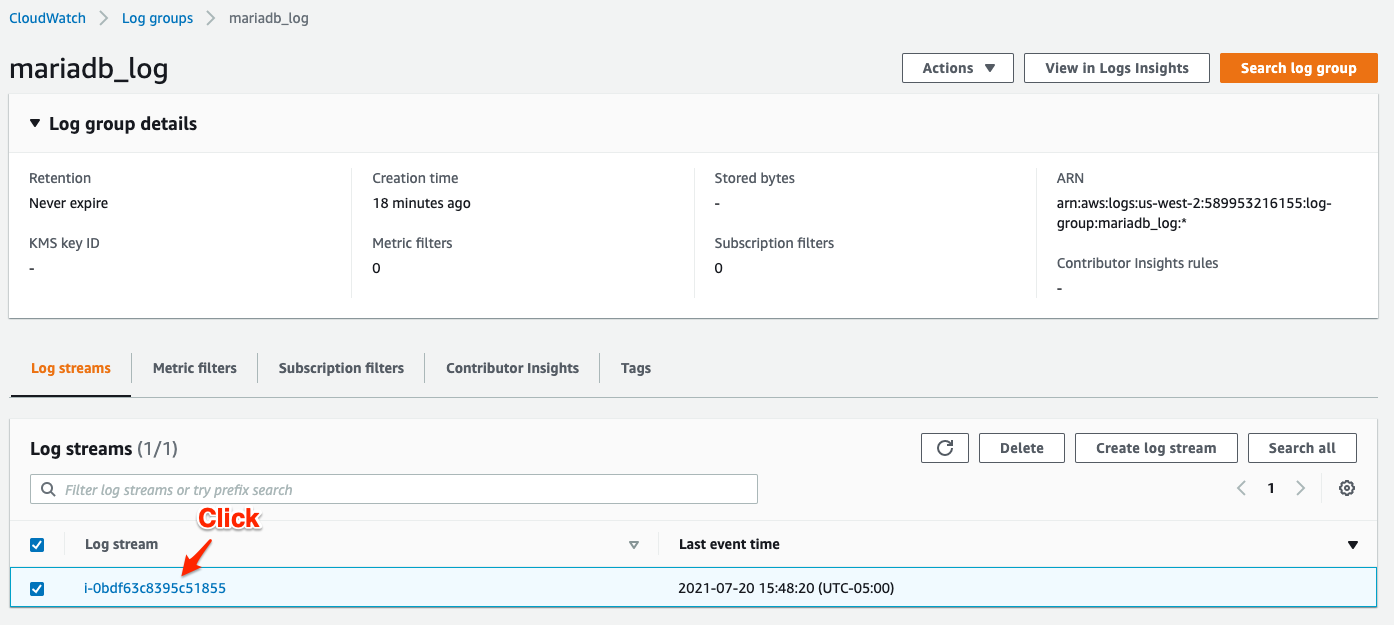
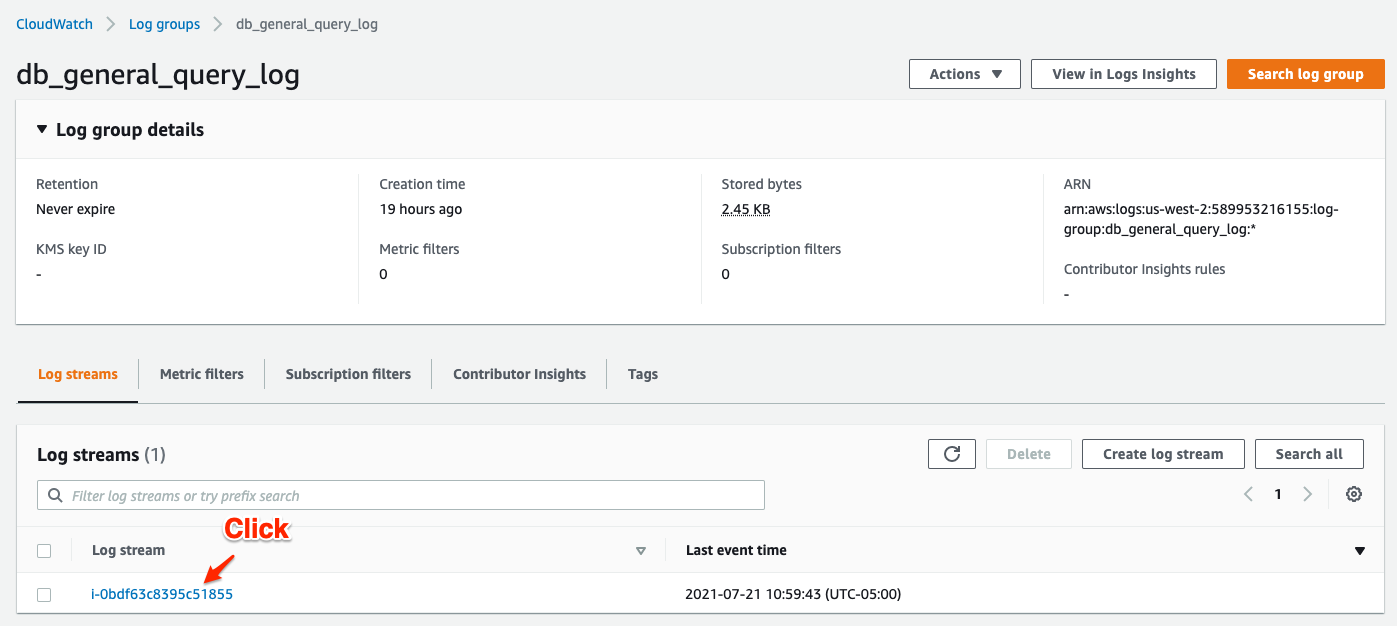
update

diff --git a/content/work3/task-5.md b/content/work3/task-5.md
@@ -34,7 +34,7 @@ aws iam attach-role-policy --role-name wa-lab-ssm-ec2-role --policy-arn arn:aws:
 
 <img src="../images/ssm2.png" alt="drawing" width="800"/> 
 
-7. In the **Command parameters** section, paste commands below. Note that we are using Secrets Manager (created at lab deployment) to pull the RDS Database masteruser password and Parameter Store (also precreated at lab launch) to pull the RDS instance endpoint.
+5. In the **Command parameters** section, paste commands below. Note that we are using Secrets Manager (created at lab deployment) to pull the RDS Database masteruser password and Parameter Store (also precreated at lab launch) to pull the RDS instance endpoint.
 
 ```sh
 #!/bin/bash
@@ -50,17 +50,17 @@ mysql -h $rdsendpoint -u $user -p$rdspasswd -e "FLUSH PRIVILEGES;"
 ```
 <img src="../images/ssm3.png" alt="drawing" width="800"/> 
 
-8. In the **Targets** section select **Choose instances manually" and later the DB server `wa-db-server`.
+6. In the **Targets** section select **Choose instances manually" and later the DB server `wa-db-server`.
 
 <img src="../images/ssm4.png" alt="drawing" width="800"/> 
 
-9. Click on **Run**.
+7. Click on **Run**.
 
-10. Database has been migrated to the RDS instance.
+8. Database has been migrated to the RDS instance.
 
 <img src="../images/ssm5.png" alt="drawing" width="800"/> 
 
-11. At this point, you could *stop* EC2 instances `wa-web-server` and `wa-db-server` from the EC2 console.
+9. At this point, you could *stop* EC2 instances `wa-web-server` and `wa-db-server` from the EC2 console.
 
 <img src="../images/ssm6.png" alt="drawing" width="800"/> 
 

diff --git a/content/work2/task-7.md b/content/work2/task-7.md
@@ -35,19 +35,25 @@ NOTE: It may take up to 5 minutes for metrics to appear in the dashboard.
 
 <img src="../images/lg5.png" alt="drawing" width="800"/> 
 
-7. Now access the application web server using the public DNS or IP.
+7. Now access the application web server using the public DNS or IP, make some inserts to update the database.
+
+<img src="../images/app4.png" alt="drawing" width="800"/> 
 
 8. Go back to **CloudWatch logs** -> **Log groups** -> **httpd_access_log** -> Click on the log stream and you will see your public IP listed (use https://www.whatismyip.com)
 
 <img src="../images/lg7.png" alt="drawing" width="900"/> 
 
-<img src="../images/lg8.png" alt="drawing" width="1000"/> 
+<img src="../images/lg10.png" alt="drawing" width="1000"/> 
 
-You could take a look at other Log groups as well.
+9. Now go to **db_general_query_log** -> Click on the log stream and you will see logged the database inserts you just made.
 
----
+<img src="../images/lg9.png" alt="drawing" width="1000"/> 
+
+<img src="../images/lg11.png" alt="drawing" width="1000"/> 
 
 You have finished this first Lab. Awesome, right? :)
+
+---
 
 In a traditional environment you would have to set up the systems and software to perform administration activities. You would require a server to execute your scripts. You would need to manage authentication credentials across all of your systems.
 
